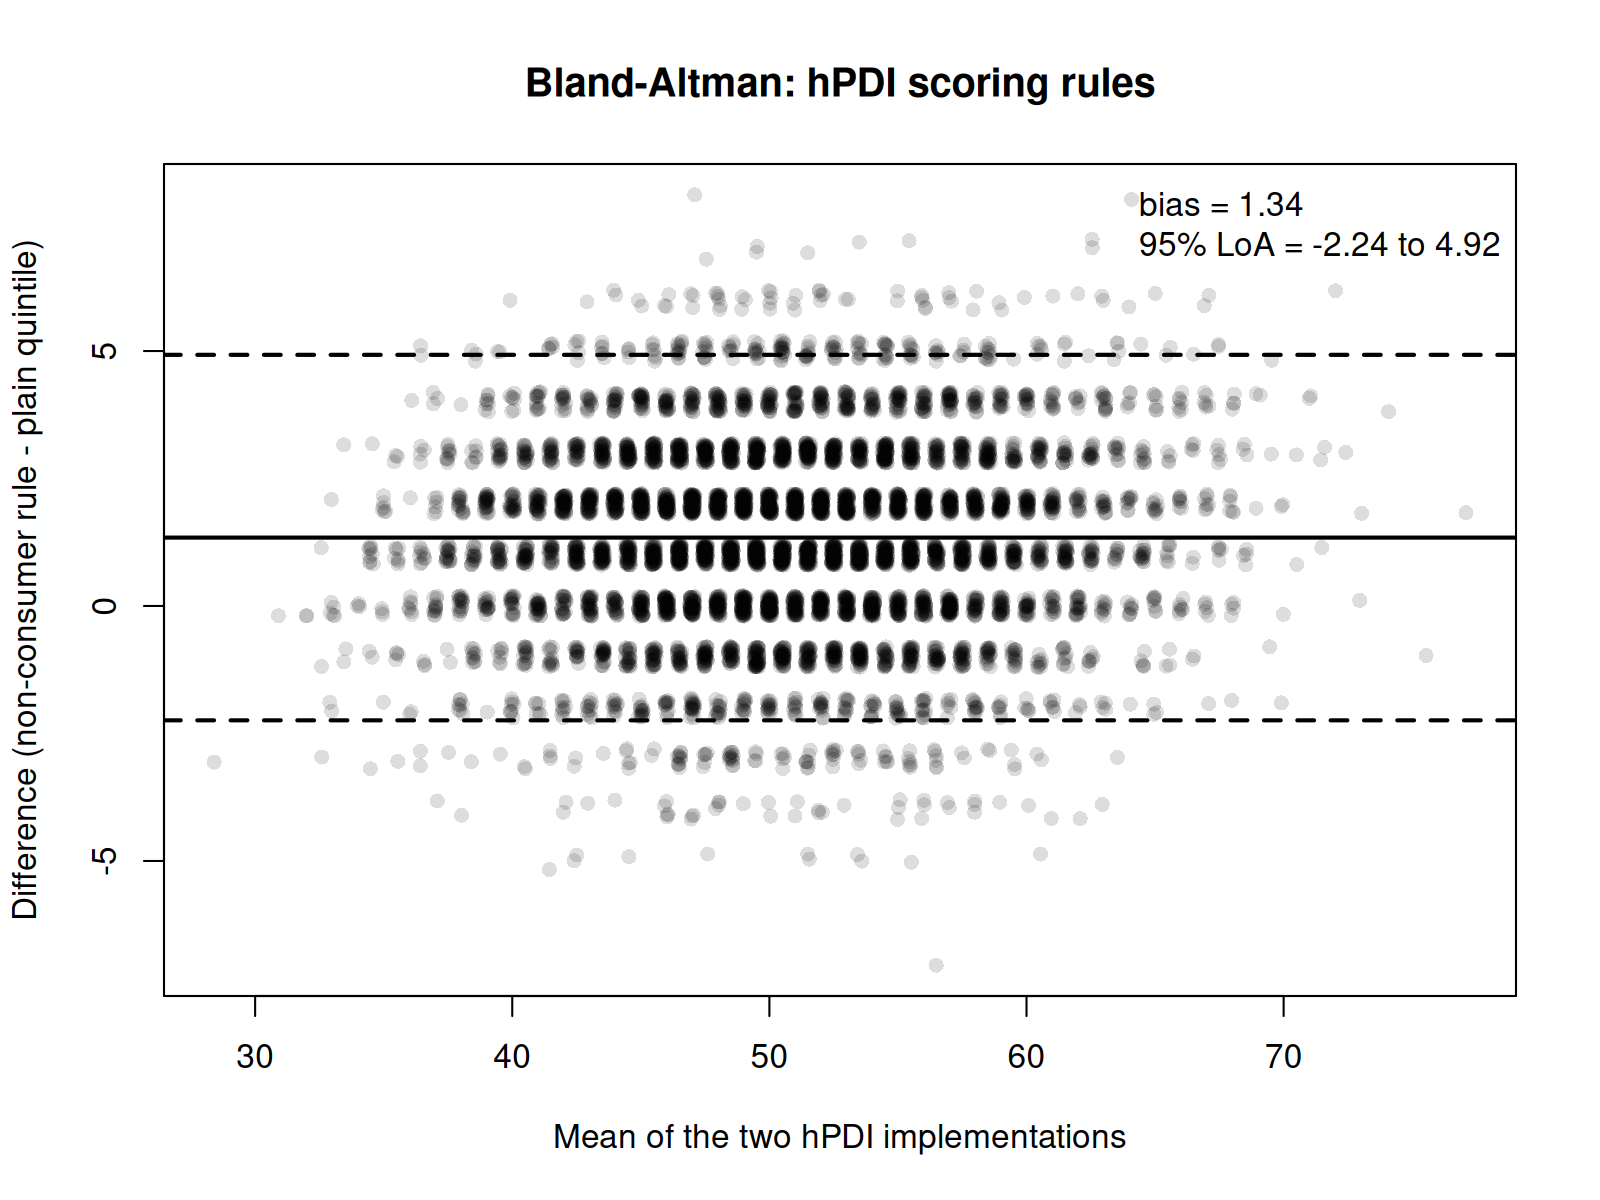
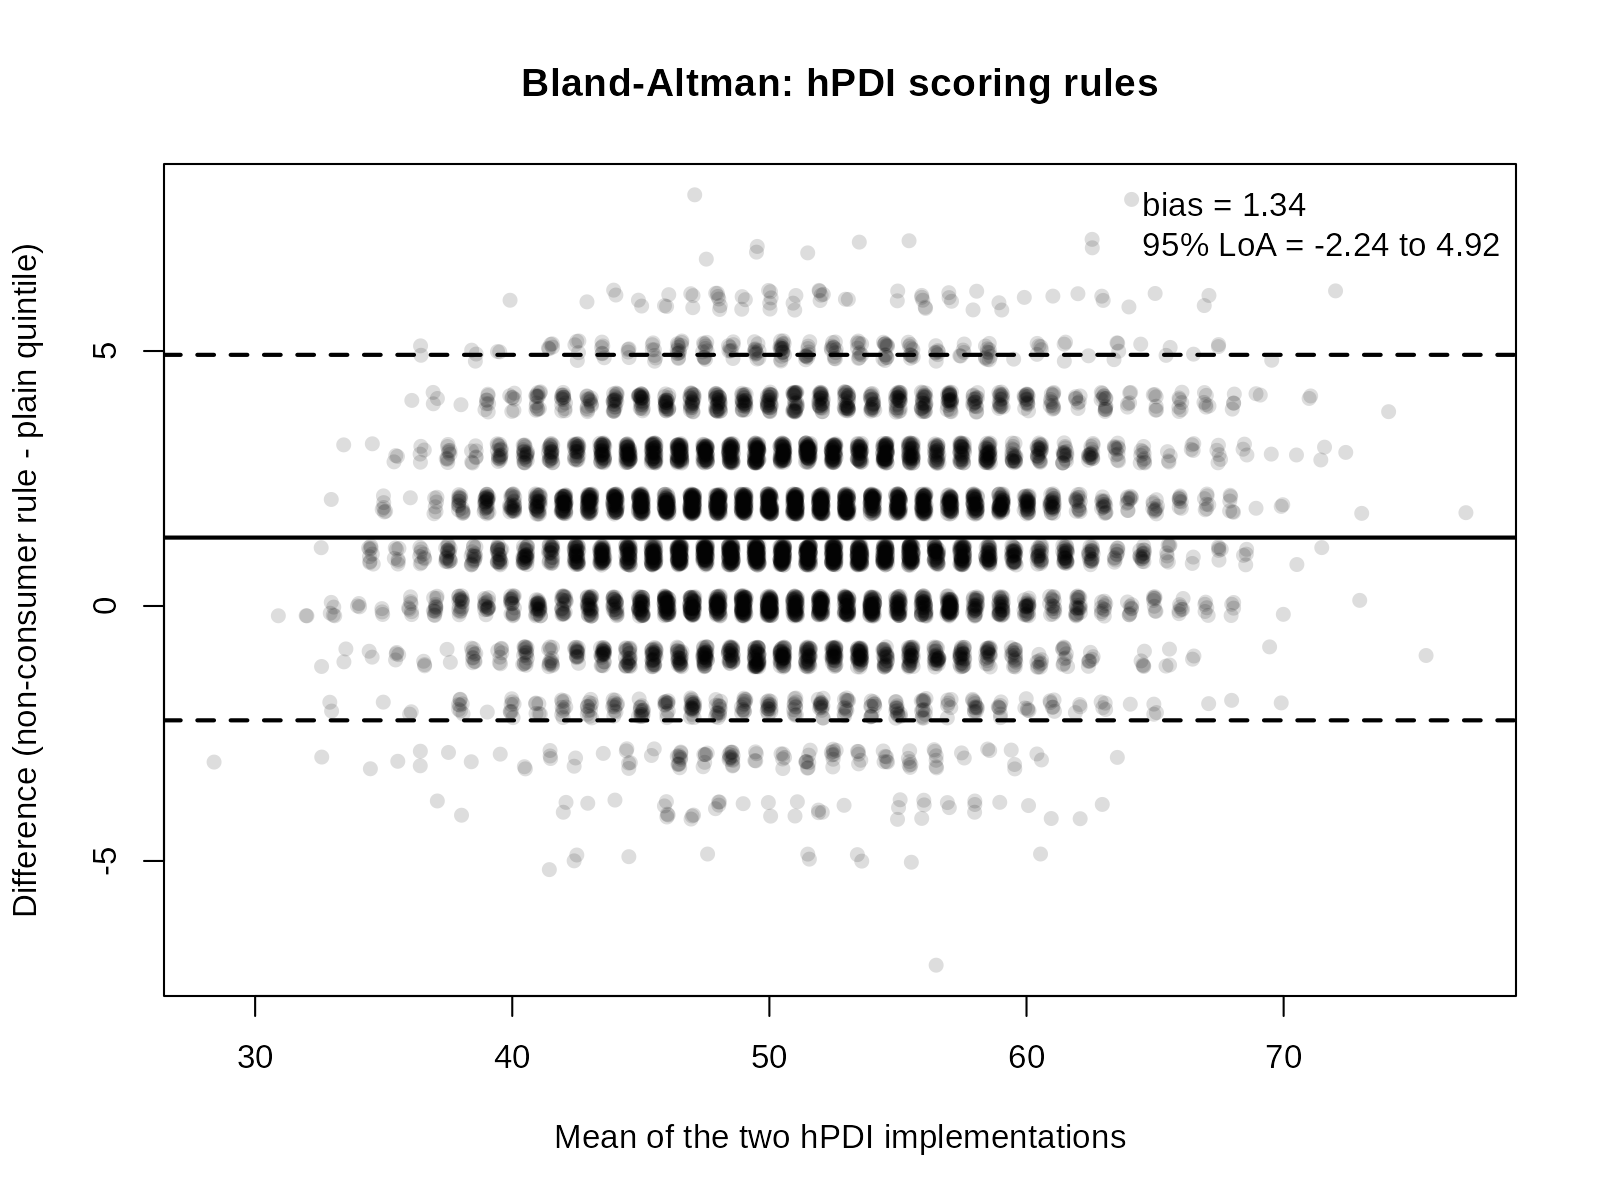
Render the four diagnostic figures with ragg; pin the font (Amendment 9)
Amendment 8 left the four diagnostics on base png() as a recorded follow-up.
They were the only 4 of 66 artefacts that failed to reproduce byte-for-byte on
a second machine, because png() resolves to the system cairo stack, whose font
rasterisation and PNG encoding renv.lock does not pin.

Migrate all four to ragg::agg_png, converting the pixel dimensions to inches at
the unchanged resolution so output size is identical (verified by reading the
dimensions back): 1600x1200@200, 2000x1400@160, 1800x1200@160, 1500x1000@160.
Plotting code is untouched; these remain base-graphics and lattice diagnostics.

The device swap alone was not enough. With no family named, ragg resolves the
generic sans through fontconfig, giving DejaVu Sans from fonts-dejavu-core --
a package renv.lock does not pin and the project does not declare. That is the
same unpinned OS dependency, moved from the rasteriser to font selection. Pin
the family to Liberation Sans, already declared (Amendment 6) and used by every
manuscript figure: par() for the base figures, trellis grid.pars for the lattice
ones, since agg_png() takes no family argument.

Tested against a reordered FONTCONFIG_FILE: unpinned output changes bytes,
pinned output does not. The unpinned rows are the negative control, without
which "identical" would only have shown the perturbation did nothing.

Verification, two independent clean rebuilds:
- run 1 vs run 2: all 66 checksums identical, including all ten PNGs
[…]

diff --git a/docs/protocol_amendments.md b/docs/protocol_amendments.md
@@ -336,3 +336,102 @@ here as a known follow-up rather than performed silently.
 **Estimand affected: none.** Every table and every reported estimate is
 byte-identical to the original run, computed from independently re-downloaded
 source data whose 28 input checksums all verified against `docs/checksums.lock`.
+
+---
+
+## Amendment 9 — 2026-07-26 — PRESENTATION ONLY (device migration)
+
+**Trigger:** Amendment 8 recorded, as a known follow-up rather than a silent
+change, that the four diagnostic figures still drawn with base `png()` were the
+only artefacts of 66 that failed to reproduce byte-for-byte on a second machine.
+This amendment carries out that migration.
+
+**Change.** The four call sites now use `ragg::agg_png` instead of
+`grDevices::png`:
+
+| Script | Figure | Former pixels / res | Inches at same res |
+|---|---|---|---|
+| `05_exposure_pdi.R` | `05_bland_altman_hPDI.png` | 1600 x 1200 @ 200 | 8.000 x 6.000 |
+| `08_missing_data.R` | `08_mice_convergence.png` | 2000 x 1400 @ 160 | 12.500 x 8.750 |
+| `08_missing_data.R` | `08_observed_vs_imputed.png` | 1800 x 1200 @ 160 | 11.250 x 7.500 |
+| `13_pca.R` | `13_scree.png` | 1500 x 1000 @ 160 | 9.375 x 6.250 |
+
+The plotting code is untouched; these remain the same base-graphics and lattice
+diagnostics. `png()` takes width and height in **pixels** alongside `res`, while
+`agg_png()` here takes **inches**, so the dimensions were converted at the
+unchanged resolution. The output pixel dimensions are therefore identical, which
+was confirmed by reading them back out of the regenerated files rather than
+assumed from the arithmetic.
+
+**The device swap alone was not sufficient, and stopping there would have left
+the defect in place under a different name.** With no font family named, `ragg`
+resolves the generic sans through **fontconfig**, which on this machine returns
+DejaVu Sans from `fonts-dejavu-core` -- a package `renv.lock` does not pin and
+the project does not declare anywhere. That is the same class of unpinned
+operating-system dependency Amendment 8 identified in cairo, merely relocated
+from the rasteriser to font selection. The six manuscript figures were never
+exposed to it because `R/theme_manuscript.R` names `Liberation Sans` explicitly.
+
+The family is now pinned to Liberation Sans, which is already a declared system
+dependency (`fonts-liberation`, added in Amendment 6) and is the typeface of
+every manuscript figure. `agg_png()` accepts no `family` argument, so the pin is
+applied per device: `par(family = ...)` for the two base-graphics figures, and
+`lattice::trellis.par.set(grid.pars = list(fontfamily = ...))` for the two
+lattice figures, trellis settings being per-device.
+
+**Tested, not assumed.** Under a `FONTCONFIG_FILE` that reorders the generic sans
+families so the default sans resolves to Ubuntu rather than DejaVu Sans:
+
+| Variant | Stock font environment vs reordered |
+|---|---|
+| Unpinned, base graphics | bytes **differ** |
+| Unpinned, lattice | bytes **differ** |
+| Pinned, base graphics | bytes **identical** |
+| Pinned, lattice | bytes **identical** |
+
+The two unpinned rows are the negative control and they carry the argument:
+without them, "identical" would only have shown that the perturbation did
+nothing. They also show that migrating the device without pinning the font would
+have produced a figure that still moved with the host's font configuration.
+
+**Verification of the pipeline.** Two independent clean rebuilds
+(`make clean-outputs` then `make all`) were run end to end and compared three
+ways:
+
+- run 1 versus run 2: **all 66 artefact checksums identical**, including all ten
+  PNGs;
+- run 2 versus `git show HEAD:docs/artefact_checksums.csv`: **62 of 66
+  identical**, the four exceptions being exactly the four migrated figures.
+  Comparing against the *committed* checksums rather than the working-tree file
+  matters for the reason Amendment 8 gave -- `19_freeze_provenance.R` rewrites
+  `docs/artefact_checksums.csv` during the run, so a run-versus-working-tree
+  comparison compares the outputs with themselves and passes vacuously;
+- the frozen analytic dataset is unchanged at SHA-256 `303bcbe0da07eb89...`, as
+  are all 55 tables and all six manuscript figures.
+
+**Consequence for appearance, stated plainly.** The four diagnostics now render
+in Liberation Sans rather than DejaVu Sans, so glyph shapes and text metrics
+change slightly and their committed PNGs are replaced. All four were inspected
+against the previous versions: no data geometry, axis range, plotted point,
+annotation value or legend entry moves. The Bland-Altman bias and limits of
+agreement still read 1.34 and -2.24 to 4.92, matching Amendment 4, and the scree
+eigenvalues are unchanged.
+
+**Residual limitation, not eliminated.** All ten figures now render through
+`ragg`, `systemfonts` and `textshaping`, which `renv.lock` pins, with the font
+file supplied by a declared system package. Glyph rasterisation still ultimately
+runs through the system **FreeType**, and PNG encoding through the system
+zlib/libpng, neither of which `renv.lock` pins. This assumption is not new and is
+not specific to these four figures -- it applies equally to the six manuscript
+figures, which did reproduce byte-identically across two machines in Amendment 8.
+What has changed is that the four diagnostics are no longer a special case that
+fails where the other six succeed. A second-machine rebuild since this change has
+not yet been performed; that remains the confirming test, and the checklist says
+so rather than claiming it.
+
+**Estimand affected: none.** These are diagnostic figures. `05` and `13` write
+their estimates to CSV independently of the plot; `08`'s figures are convergence
+and distributional checks on the imputation. A graphics device cannot alter an
+estimate, and the evidence for that here is direct rather than argued: every
+table and the frozen analytic dataset are byte-identical to the committed values
+across both rebuilds.

diff --git a/docs/reproducibility_checklist.md b/docs/reproducibility_checklist.md
@@ -21,7 +21,7 @@ Each item states what was done and where the evidence lives. Items that were
 | Item | Status | Evidence |
 |---|---|---|
 | Analysis plan fixed before estimation | Yes | Phases 1–2; frozen 2026-07-24 |
-| Every deviation logged with rationale and estimand impact | Yes | `docs/protocol_amendments.md` (5 amendments) |
+| Every deviation logged with rationale and estimand impact | Yes | `docs/protocol_amendments.md` (9 amendments) |
 | Exactly one primary test pre-specified | Yes | hPDI per SD → composite score |
 | Adjustment set derived from a causal diagram, not convention | Yes | `analysis/00_dag.R`; machine-checked, halts on disagreement |
 | Mediator status of adiposity proven, not asserted | Yes | absent from every minimal sufficient adjustment set |
@@ -43,7 +43,9 @@ Each item states what was done and where the evidence lives. Items that were
 | Dependency graph explicit | Yes | `Makefile`, targets 00–19 |
 | Clean end-to-end rerun performed | Yes | `make verify` |
 | Artefact checksums recorded and compared across runs | Yes | `docs/artefact_checksums.csv` |
-| Rebuild reproduced on a **different machine** from a clean clone | Partial | 2026-07-26: 62/66 artefacts byte-identical, including all 55 tables and the frozen dataset. Four diagnostic figures differ; see below and Amendment 8 |
+| Rebuild reproduced on a **different machine** from a clean clone | Partial | 2026-07-26: 62/66 artefacts byte-identical, including all 55 tables and the frozen dataset. The four diagnostic figures that differed have since had their cause removed (Amendment 9), but that second-machine rebuild predates the fix and has not been repeated, so this stays Partial |
+| Every figure rendered by a device pinned in `renv.lock` | Yes | all ten PNGs via `ragg::agg_png`; the last four moved off base `png()` in Amendment 9 |
+| Byte-identical **figure** reproduction across environments | Partial | Was **No**. Amendment 9 moved the four remaining base-`png()` diagnostics to `ragg` and pinned the font family, so no figure now depends on the system cairo stack or on fontconfig's default-sans ordering. Demonstrated: unpinned output changes bytes under a reordered `FONTCONFIG_FILE` and pinned output does not (negative control included); two independent clean rebuilds agree on all 66 checksums. Not yet demonstrated: a second-machine rebuild since the change |
 | Analytic dataset frozen and hashed | Yes | `data/processed/analytic_frozen.rds` |
 | Session information archived | Yes | `docs/PROVENANCE.md` |
 | Git commit identifier recorded with results | Yes | `docs/PROVENANCE.md` |
@@ -72,7 +74,7 @@ Each item states what was done and where the evidence lives. Items that were
 | Cycle-contemporaneous FNDDS assignment | **No** | The pre-pandemic public file omits the survey-cycle identifier for disclosure control, forcing one classification per food code. |
 | MetS severity score across all groups | **No** | Published coefficients do not exist for non-Hispanic Asian or Other/Multiracial participants. |
 | Pre-registration on a public registry | **No** | The protocol was frozen and version-controlled, but not deposited in an external registry. |
-| Byte-identical **figure** reproduction across environments | **No** | The four diagnostic figures drawn with base `png()` render through the system **cairo** stack, which `renv` does not pin. On a second machine their bytes differ, while all 55 tables, the frozen dataset and all six `ragg`-rendered manuscript figures are byte-identical. No estimate is affected. The earlier "66/66" claim held within one machine, not across machines. |
+| Byte-identical **figure** reproduction confirmed on a second machine | **No** | The cause of the earlier failure is fixed and tested (Amendment 9), and figure reproduction is now Partial rather than No in *Computation* above. It is listed here too because the confirming test — a clean-clone rebuild on a second machine *since* the fix — has not been run. Claiming it on same-machine evidence is the specific error Amendment 8 corrected. |
 
 ## How to reproduce
 

diff --git a/docs/PROVENANCE.md b/docs/PROVENANCE.md
@@ -1,6 +1,6 @@
 # Provenance record
 
-Generated: 2026-07-26 11:23:34 UTC
+Generated: 2026-07-26 12:35:42 UTC
 
 ## Study
 
@@ -10,10 +10,10 @@ All reported estimates are associations; no causal effect is estimated.
 
 ## Git
 
-- Commit: `5fef371f6c138dabe2a06d6e00e25c12f99a52aa`
+- Commit: `d9da8d4a7aa959a1abe1b0aaaa90f0824796f509`
 - Branch: `main`
 - Working tree at freeze: **MODIFIED** (see below)
-  - ` M data/raw/MANIFEST.csv  M docs/artefact_checksums.csv`
+  - ` M analysis/05_exposure_pdi.R  M analysis/08_missing_data.R  M analysis/13_pca.R  M docs/PROVENANCE.md  M docs/artefact_checksums.csv  M docs/protocol_amendments.md  M docs/reproducibility_checklist.md  M outputs/figures/05_bland_altman_hPDI.png  M outputs/figures/08_mice_convergence.png  M outputs/figures/08_observed_vs_imputed.png  M outputs/figures/13_scree.png`
 
 ## Analytic dataset
 
